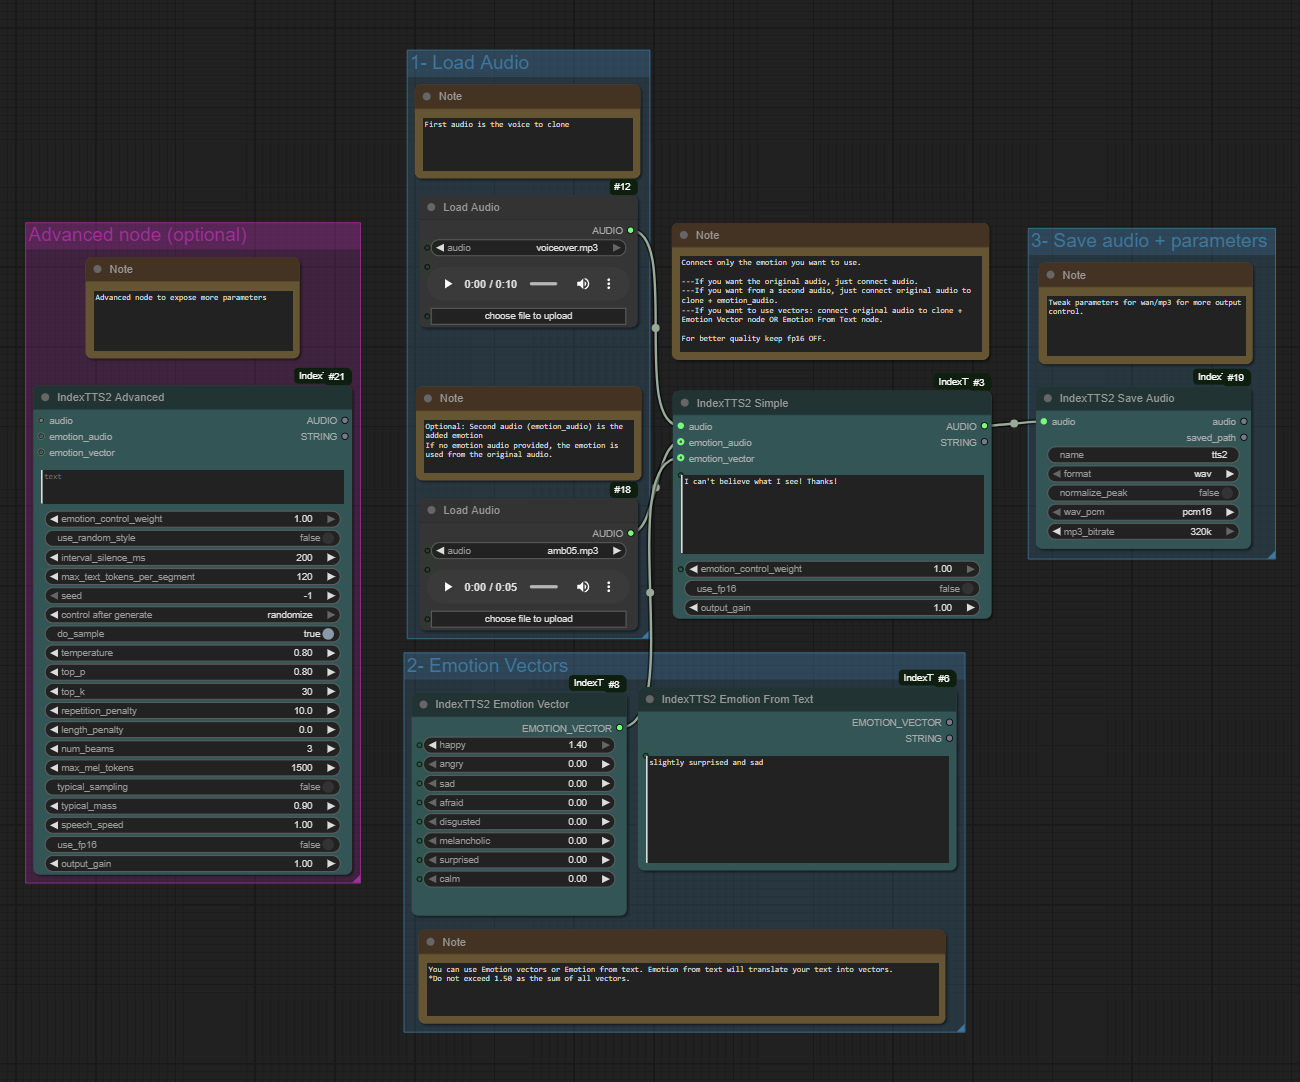
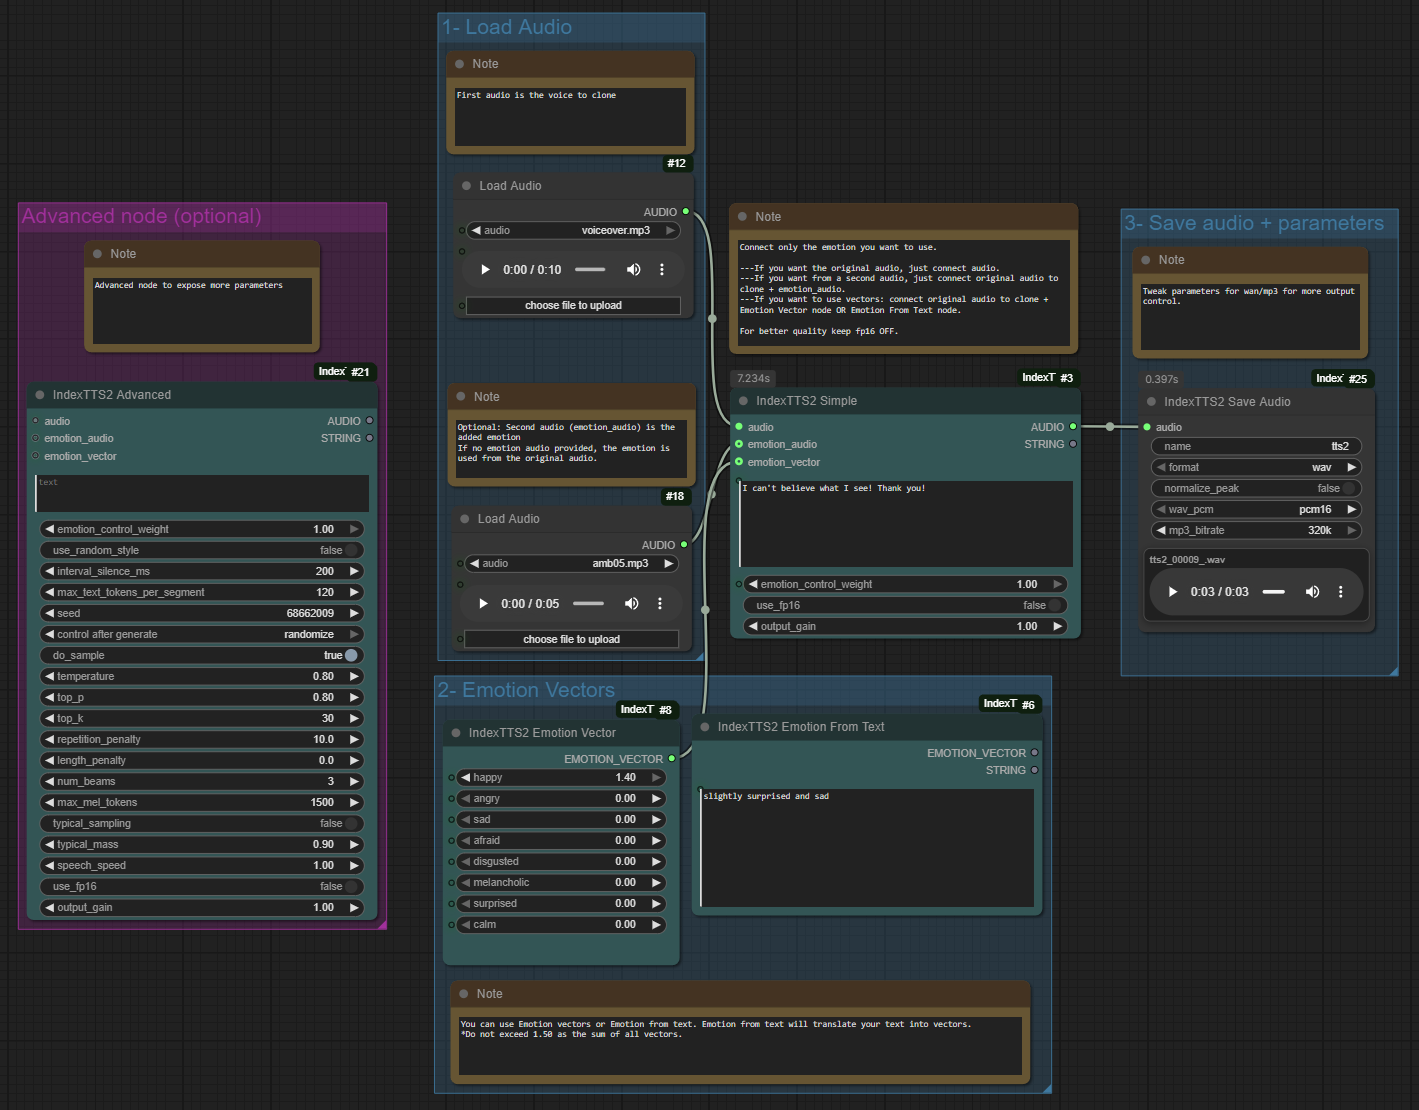
save audio - embedded player

Changed region(s): [[0.3077, 0.0, 0.9846, 1.0], [0.0, 0.183, 0.2769, 0.854]]

diff --git a/web/js/save_audio_player.js b/web/js/save_audio_player.js
@@ -1,0 +1,177 @@
+import { app } from '../../../scripts/app.js';
+import { api } from '../../../scripts/api.js';
+
+const MARGIN = 6;
+let stylesInjected = false;
+
+function ensureStyles() {
+  if (stylesInjected) return;
+  stylesInjected = true;
+  const style = document.createElement('style');
+  style.textContent = `
+.indextts2-audio-player {
+  position: absolute;
+  z-index: 12;
+  pointer-events: auto;
+  display: flex;
+  flex-direction: column;
+  gap: 4px;
+  padding: 6px;
+  background: var(--bg-color, var(--comfy-menu-bg, #2a2a2a));
+  border: 1px solid var(--border-color, #444);
+  border-radius: 8px;
+  box-shadow: 0 2px 8px rgba(0, 0, 0, 0.35);
+  min-width: 180px;
+  transition: opacity 0.2s ease, filter 0.2s ease;
+}
+.indextts2-audio-player[data-state="inactive"] {
+  opacity: 0.9;
+}
+.indextts2-audio-player[data-state="inactive"] audio {
+  pointer-events: none;
+  filter: grayscale(0.8);
+  opacity: 0.42;
+}
+.indextts2-audio-player__title {
+  font-size: 11px;
+  font-weight: 600;
+  color: var(--descrip-text, #c7c7c7);
+}
+`;
+  document.head.appendChild(style);
+}
+
+function buildTransformStyle(ctx, widgetWidth, y) {
+  const { canvas } = ctx;
+  const rect = canvas.getBoundingClientRect();
+  const matrix = new DOMMatrix()
+    .scaleSelf(rect.width / canvas.width, rect.height / canvas.height)
+    .multiplySelf(ctx.getTransform())
+    .translateSelf(MARGIN, y + MARGIN);
+  return {
+    transformOrigin: '0 0',
+    transform: matrix.toString(),
+    left: `${rect.left + window.scrollX}px`,
+    top: `${rect.top + window.scrollY}px`,
+  };
+}
+
+function buildAudioUrl(item) {
+  if (!item || !item.filename) {
+    return null;
+  }
+
+  const params = new URLSearchParams({
+    filename: item.filename,
+    type: item.type || 'output',
+  });
+
+  if (item.subfolder) {
+    params.set('subfolder', item.subfolder);
+  }
+
+  let url = api.apiURL(`/view?${params.toString()}`);
+  if (typeof app.getRandParam === 'function') {
+    url += app.getRandParam();
+  }
+  return url;
+}
+
+function setState(container, audioEl, titleEl, clip) {
+  if (clip?.url) {
+    if (audioEl.src !== clip.url) {
+      audioEl.src = clip.url;
+      audioEl.load();
+    }
+    titleEl.textContent = clip.title ?? 'Audio preview';
+    container.dataset.state = 'active';
+  } else {
+    audioEl.pause();
+    audioEl.removeAttribute('src');
+    audioEl.load();
+    titleEl.textContent = 'No audio yet';
+    container.dataset.state = 'inactive';
+  }
+}
+
+app.registerExtension({
+  name: 'IndexTTS2.SaveAudioPlayer',
+  beforeRegisterNodeDef(nodeType, nodeData) {
+    if (nodeData?.name !== 'IndexTTS2SaveAudio') {
+      return;
+    }
+
+    const originalOnNodeCreated = nodeType.prototype.onNodeCreated;
+    nodeType.prototype.onNodeCreated = function (...args) {
+      originalOnNodeCreated?.apply(this, args);
+
+      ensureStyles();
+
+      const container = document.createElement('div');
+      container.className = 'indextts2-audio-player';
+
+      const title = document.createElement('div');
+      title.className = 'indextts2-audio-player__title';
+      title.textContent = 'No audio yet';
+
+      const audio = document.createElement('audio');
+      audio.controls = true;
+      audio.style.width = '100%';
+
+      container.appendChild(title);
+      container.appendChild(audio);
+      document.body.appendChild(container);
+
+      const widget = {
+        name: 'indextts2_audio_widget',
+        type: 'indextts2_audio_widget',
+        draw(ctx, node, widgetWidth, y) {
+          if (!container.isConnected) {
+            document.body.appendChild(container);
+          }
+          const baseWidth = Math.max(160, (node.size?.[0] ?? widgetWidth) - MARGIN * 2);
+          container.style.width = `${baseWidth}px`;
+          const style = buildTransformStyle(ctx, widgetWidth, y);
+          Object.assign(container.style, style);
+        },
+        serialize: false,
+        computeSize() {
+          return [220, 90];
+        },
+      };
+
+      this.addCustomWidget(widget);
+      this.size = [this.size[0], Math.max(this.size[1], 120)];
+
+      const originalOnRemoved = this.onRemoved;
+      this.onRemoved = function () {
+        container.remove();
+        originalOnRemoved?.apply(this, arguments);
+      };
+      setState(container, audio, title, null);
+
+      const originalOnExecuted = this.onExecuted;
+      this.onExecuted = function (message) {
+        originalOnExecuted?.apply(this, arguments);
+        const audioResults =
+          message?.ui?.audio ||
+          message?.audio ||
+          [];
+
+        if (Array.isArray(audioResults) && audioResults.length > 0) {
+          const latest = audioResults[audioResults.length - 1];
+          const url = buildAudioUrl(latest);
+          if (url) {
+            setState(container, audio, title, {
+              url,
+              title: latest.filename || 'Audio preview',
+            });
+            return;
+          }
+        }
+
+        setState(container, audio, title, null);
+      };
+    };
+  },
+});

diff --git a/nodes/indextts2_save_audio.py b/nodes/indextts2_save_audio.py
@@ -4,6 +4,9 @@ import numpy as np
 import folder_paths
 
 class IndexTTS2SaveAudio:
+    def __init__(self):
+        self._ui_type = "output"
+
     @classmethod
     def INPUT_TYPES(cls):
         return {
@@ -21,9 +24,9 @@ class IndexTTS2SaveAudio:
             },
         }
 
-    RETURN_TYPES = ("AUDIO", "STRING")
-    RETURN_NAMES = ("audio", "saved_path")
+    RETURN_TYPES: tuple = ()
     FUNCTION = "save"
+    OUTPUT_NODE = True
     CATEGORY = "Audio/IndexTTS"
 
     def _normalize(self, mono: np.ndarray):
@@ -55,21 +58,29 @@ class IndexTTS2SaveAudio:
                 wf.writeframes(pcm16.T.tobytes())
             return True
 
-    def _compose_paths(self, name_prefix: str, batch_count: int) -> List[str]:
+    def _compose_paths(self, name_prefix: str, batch_count: int, extension: str):
         output_dir = folder_paths.get_output_directory()
         # Use Comfy's helper to build prefix and a counter
         full_output_folder, filename, counter, subfolder, filename_prefix = folder_paths.get_save_image_path(
             f"audio/{name_prefix}", output_dir
         )
-        paths = []
+        entries = []
+        normalized_subfolder = subfolder or ""
         for b in range(batch_count):
             filename_with_batch = filename.replace("%batch_num%", str(b))
-            file = f"{filename_with_batch}_{counter:05}_"
-            paths.append(os.path.join(full_output_folder, file))
+            file = f"{filename_with_batch}_{counter:05}_.{extension}"
+            entries.append(
+                {
+                    "abs_path": os.path.join(full_output_folder, file),
+                    "filename": file,
+                    "subfolder": normalized_subfolder,
+                    "type": self._ui_type,
+                }
+            )
             counter += 1
-        return paths
+        return entries
 
-    def _save_with_av(self, fmt: str, audio, filename_prefix: str, quality: str = "320k") -> List[str]:
+    def _save_with_av(self, fmt: str, audio, filename_prefix: str, quality: str = "320k") -> List[dict]:
         try:
             from comfy_extras import nodes_audio as ce_audio  # type: ignore
         except Exception as e:
@@ -82,12 +93,14 @@ class IndexTTS2SaveAudio:
             raise ValueError(f"Unsupported format for AV saver (mp3 only): {fmt}")
 
         results = ui.get("ui", {}).get("audio", [])
-        base = folder_paths.get_output_directory()
-        out: List[str] = []
-        for item in results:
-            sub = item.get("subfolder") or ""
-            out.append(os.path.join(base, sub, item.get("filename", "")))
-        return out
+        return [
+            {
+                "filename": item.get("filename", ""),
+                "subfolder": item.get("subfolder") or "",
+                "type": item.get("type") or self._ui_type,
+            }
+            for item in results
+        ]
     
     def save(self, audio, name: str, format: str,
              normalize_peak: bool = False,
@@ -124,23 +137,27 @@ class IndexTTS2SaveAudio:
             batch.append(np_w)
 
         name_prefix = (name or "tts2").strip() or "tts2"
-        paths: List[str] = []
+        ui_results: List[dict] = []
 
         if format == "wav":
-            base_paths = self._compose_paths(name_prefix, len(batch))
-            for np_w, base in zip(batch, base_paths):
-                out_path = base + ".wav"
+            entries = self._compose_paths(name_prefix, len(batch), "wav")
+            for np_w, entry in zip(batch, entries):
+                out_path = entry["abs_path"]
                 os.makedirs(os.path.dirname(out_path), exist_ok=True)
                 self._save_wav(out_path, np_w, sr, wav_pcm)
-                paths.append(out_path)
+                ui_results.append(
+                    {
+                        "filename": entry["filename"],
+                        "subfolder": entry["subfolder"],
+                        "type": entry["type"],
+                    }
+                )
         elif format == "mp3":
-            paths = self._save_with_av("mp3", audio, filename_prefix=f"audio/{name_prefix}", quality=mp3_bitrate)
+            ui_results = self._save_with_av("mp3", audio, filename_prefix=f"audio/{name_prefix}", quality=mp3_bitrate)
         else:
             raise ValueError(f"Unsupported format: {format}")
 
-        saved = "\n".join(paths)
-        # passthrough audio so the graph can continue if needed
-        return (audio, saved)
+        return {"ui": {"audio": ui_results}}
 
 
 

diff --git a/__init__.py b/__init__.py
@@ -20,3 +20,7 @@ NODE_DISPLAY_NAME_MAPPINGS = {
     "IndexTTS2Simple": "IndexTTS2 Simple",
 }
 
+WEB_DIRECTORY = "./web"
+
+__all__ = ["NODE_CLASS_MAPPINGS", "NODE_DISPLAY_NAME_MAPPINGS", "WEB_DIRECTORY"]
+

diff --git a/README.md b/README.md
@@ -8,6 +8,7 @@ Original repo: https://github.com/index-tts/index-tts
 ![ComfyUI-IndexTTS2 nodes](images/overview.png)
 
 ## Updates
+- 2025-10-13: Save Audio node now acts as an output node with an embedded player overlay for instant preview inside the graph (no need for downstream preview nodes).
 - 2025-10-08: Default FP32 with optional FP16 toggle, output gain control, and a Save Audio helper node (wav/mp3 + quality parameters).
 - 2025-09-22: Added IndexTTS2 Advanced node exposing sampling, speed, seed, and other generation controls.
 
@@ -27,7 +28,7 @@ Original repo: https://github.com/index-tts/index-tts
 - **IndexTTS2 Advanced** - Simple inputs plus overrides for sampling, speech speed, pauses, CFG, seed, FP16 toggle, and output gain.
 - **IndexTTS2 Emotion Vector** – eight sliders (0.0–1.4, sum <= 1.5) producing an emotion vector.
 - **IndexTTS2 Emotion From Text** – requires ModelScope and local QwenEmotion; turns short text into an emotion vector + summary.
-- **IndexTTS2 Save Audio** - saves generated audio tensors to disk with wav/mp3 options.
+- **IndexTTS2 Save Audio** - saves generated audio tensors to disk with wav/mp3 options and surfaces an inline player directly on the node after execution.
 
 ## Examples
 - Speaker audio -> IndexTTS2 Simple -> Preview/Save Audio